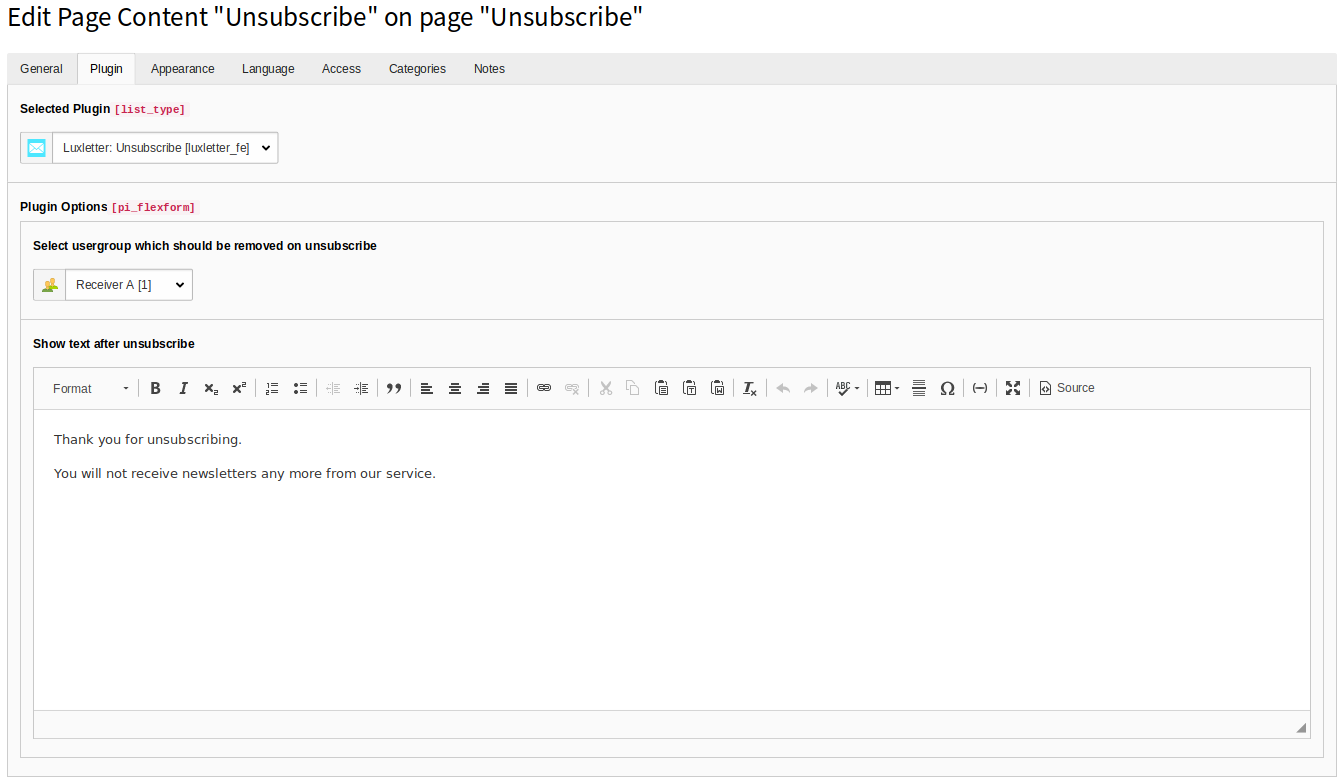
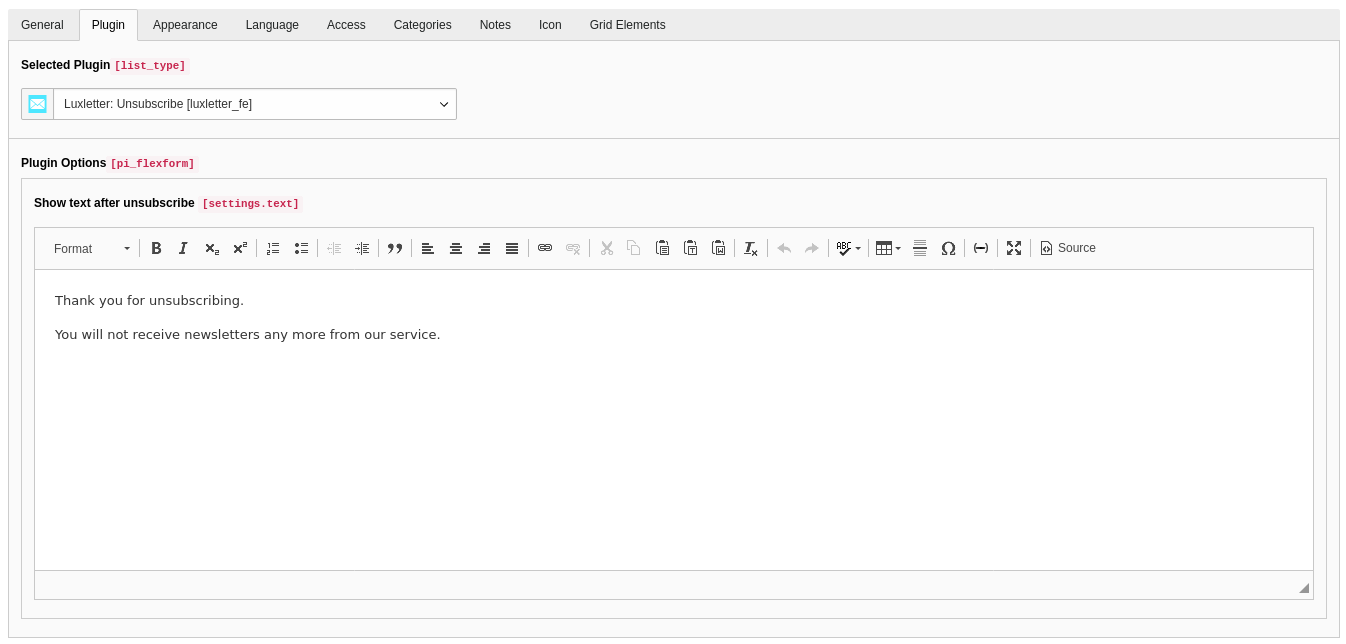
[TASK] Remove usergroup selection in unsubscribe plugin
This configuration is not needed because the newsletter object knows which usergroup is in relation. This group can be automatically removed. The upside of this change is, that one unsubscribe plugin now can be used for multiple newsletters with different groups.

diff --git a/Classes/Controller/FrontendController.php b/Classes/Controller/FrontendController.php
@@ -5,7 +5,6 @@ namespace In2code\Luxletter\Controller;
 use Exception;
 use In2code\Luxletter\Domain\Model\Newsletter;
 use In2code\Luxletter\Domain\Model\User;
-use In2code\Luxletter\Domain\Model\Usergroup;
 use In2code\Luxletter\Domain\Repository\UsergroupRepository;
 use In2code\Luxletter\Domain\Repository\UserRepository;
 use In2code\Luxletter\Domain\Service\LogService;
@@ -18,6 +17,7 @@ use In2code\Luxletter\Exception\MissingRelationException;
 use In2code\Luxletter\Exception\UserValuesAreMissingException;
 use In2code\Luxletter\Utility\BackendUserUtility;
 use In2code\Luxletter\Utility\LocalizationUtility;
+use Throwable;
 use TYPO3\CMS\Core\Utility\GeneralUtility;
 use TYPO3\CMS\Extbase\Mvc\Controller\ActionController;
 use TYPO3\CMS\Extbase\Object\Exception as ExceptionExtbaseObject;
@@ -117,21 +117,17 @@ class FrontendController extends ActionController
     {
         try {
             $this->checkArgumentsForUnsubscribeAction($user, $newsletter, $hash);
-            /** @var Usergroup $usergroupToRemove */
-            $usergroupToRemove = $this->usergroupRepository->findByUid((int)$this->settings['removeusergroup']);
-            $user->removeUsergroup($usergroupToRemove);
+            $user->removeUsergroup($newsletter->getReceiver());
             $this->userRepository->update($user);
             $this->userRepository->persistAll();
             $this->view->assignMultiple([
                 'success' => true,
                 'user' => $user,
                 'hash' => $hash,
-                'usergroupToRemove' => $usergroupToRemove
+                'usergroupToRemove' => $newsletter->getReceiver()
             ]);
-            if ($newsletter !== null) {
-                $this->logService->logUnsubscribe($newsletter, $user);
-            }
-        } catch (Exception $exception) {
+            $this->logService->logUnsubscribe($newsletter, $user);
+        } catch (Throwable $exception) {
             $languageKey = 'fe.unsubscribe.message.' . $exception->getCode();
             $message = LocalizationUtility::translate($languageKey);
             $this->addFlashMessage(($languageKey !== $message) ? $message : $exception->getMessage());
@@ -164,9 +160,7 @@ class FrontendController extends ActionController
         if ($hash === '') {
             throw new ArgumentMissingException('Hash not given', 1562050533);
         }
-        /** @var Usergroup $usergroupToRemove */
-        $usergroupToRemove = $this->usergroupRepository->findByUid((int)$this->settings['removeusergroup']);
-        if ($user->getUsergroup()->contains($usergroupToRemove) === false) {
+        if ($user->getUsergroup()->contains($newsletter->getReceiver()) === false) {
             throw new MissingRelationException('Usergroup not assigned to user', 1562066292);
         }
         if ($user->getUnsubscribeHash() !== $hash) {

diff --git a/Documentation/Installation/Index.md b/Documentation/Installation/Index.md
@@ -33,7 +33,9 @@ TYPO3 10.4 or 11.5 is required. The free extension lux can be also installed for
 
 ### Site configuration
 
-You must define one unsubscribe pid per site configuration. This is relevant the unsubscribe plugin of luxletter.
+You must define one unsubscribe pid per site configuration. This is relevant the unsubscribe plugin of luxletter. You
+can also use a pid outside the site or simply use one unsubscribe page for multiple sites. Nevertheless the PID must
+be defined in every site configuration.
 
 **Attention** Be aware to use a full domain name in base (Entry point) settings of your site configuration. Good: `https://www.domain.org/` - Bad: `/`
 
@@ -97,8 +99,10 @@ Don't forget to add the page identifier to the main extension settings (see abov
 
 <img src="../Images/documentation_installation_unsubscribeplugin.png" width="800" alt="unsubscribe plugin" />
 
-* You should select a usergroup that should be removed from the current visiting frontenduser.
 * In addition you can add a message that should appear if a user just unsubscribed.
+
+Technical note: if someone unsubscribes from a newsletter, luxletter will simply remove the receiver usergroup from
+this user. The user is not deleted from the system.
 
 **Note** Unsubscribing is only possible if a hash is added to the link call.
 See `{luxletter:mail.getUnsubscribeUrl(newsletter:newsletter,user:user,site:site)}` in the newsletter layout
